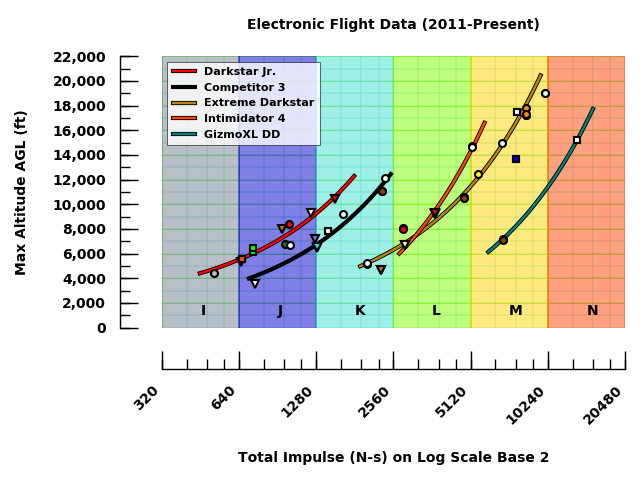
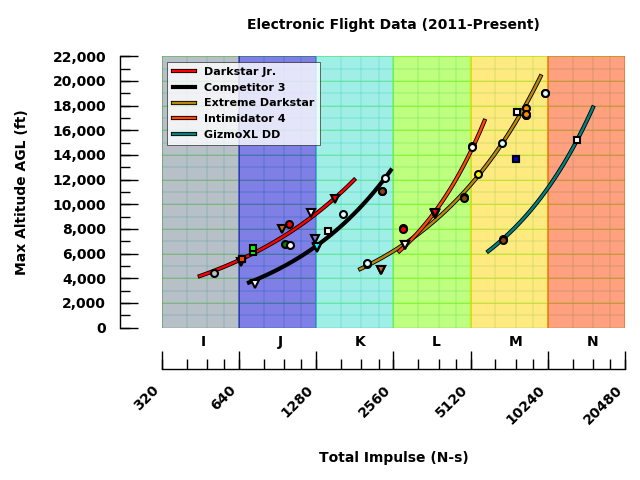
Better curve fits on semilogx scale.

diff --git a/plots/NewLog_v2.py b/plots/NewLog_v2.py
@@ -276,7 +276,7 @@ fout = 'NewLog_v2'
 
 # set titles
 title= r"Electronic Flight Data (2011-Present)"
-xtxt = r"Total Impulse (N-s) on Log Scale Base 2"
+xtxt = r"Total Impulse (N-s)"
 ytxt = r"Max Altitude AGL (ft)"
 
 # axes limits
@@ -398,7 +398,7 @@ ylow=itot-1.e6
 yhig=itot+1.e6
 plt.fill_between(itot,yhig,ylow,interpolate=True,alpha=0.5,\
     color='slategrey',label='_nolegend_')
-plt.text(0.5,1000,r'I',fontsize=10,family=family,\
+plt.text(0.5,-1500,r'I',fontsize=10,family=family,\
     color='k',fontweight='bold')
 
 # J-Range
@@ -407,7 +407,7 @@ ylow=itot-1.e6
 yhig=itot+1.e6
 plt.fill_between(itot,yhig,ylow,interpolate=True,alpha=0.5,\
     color='mediumblue',label='_nolegend_')
-plt.text(1.5,1000,r'J',fontsize=10,family=family,\
+plt.text(1.5,-1500,r'J',fontsize=10,family=family,\
     color='k',fontweight='bold')
 
 # K-Range
@@ -416,7 +416,7 @@ ylow=itot-1.e6
 yhig=itot+1.e6
 plt.fill_between(itot,yhig,ylow,interpolate=True,alpha=0.5,\
     color='turquoise',label='_nolegend_')
-plt.text(2.5,1000,r'K',fontsize=10,family=family,\
+plt.text(2.5,-1500,r'K',fontsize=10,family=family,\
     color='k',fontweight='bold')
 
 # L-Range
@@ -425,7 +425,7 @@ ylow=itot-1.e6
 yhig=itot+1.e6
 plt.fill_between(itot,yhig,ylow,interpolate=True,alpha=0.5,\
     color='chartreuse',label='_nolegend_')
-plt.text(3.5,1000,r'L',fontsize=10,family=family,\
+plt.text(3.5,-1500,r'L',fontsize=10,family=family,\
     color='k',fontweight='bold')
 
 # M-Range
@@ -434,7 +434,7 @@ ylow=itot-1.e6
 yhig=itot+1.e6
 plt.fill_between(itot,yhig,ylow,interpolate=True,alpha=0.5,\
     color='gold',label='_nolegend_')
-plt.text(4.5,1000,r'M',fontsize=10,family=family,\
+plt.text(4.5,-1500,r'M',fontsize=10,family=family,\
     color='k',fontweight='bold')
 
 # N-Range
@@ -443,7 +443,7 @@ ylow=itot-1.e6
 yhig=itot+1.e6
 plt.fill_between(itot,yhig,ylow,interpolate=True,alpha=0.5,\
     color='orangered',label='_nolegend_')
-plt.text(5.5,1000,r'N',fontsize=10,family=family,\
+plt.text(5.5,-1500,r'N',fontsize=10,family=family,\
     color='k',fontweight='bold')
 
 # Loop twice over all flight data
@@ -495,26 +495,30 @@ for jj in range(2):
         for flight in data:
             nf=nf+1
         print "There are ",nf," flights in the databse."
-        xlin=np.zeros(nf)
         xdat=np.zeros(nf)
         ydat=np.zeros(nf)
+        yagl=np.zeros(nf)
         ii=0
         for flight in data:
-            xlin[ii]=flight[5]
             xdat[ii]=np.log(flight[5]/320.0)/np.log(2.0)
-            ydat[ii]=flight[7]
+            ydat[ii]=np.log(flight[7]/1000.0)/np.log(2.0)
+            yagl[ii]=flight[7]
             ii+=1
 
-        # Curve Fit
+        # Curve Fit in Log-Log Coordinates
         # slope, intercept, r_value, p_value, std_err
         if nf>1 and jj==0 and k!=4:
-            [m,b,r,p,std]=sp.stats.linregress(xlin,ydat)
-            xfit=np.linspace(lb,ub)
+            [m,b,r,p,std]=sp.stats.linregress(xdat,ydat)
+            lb2=np.log(lb/320.)/np.log(2.0)
+            ub2=np.log(ub/320.)/np.log(2.0) 
+            xfit=np.linspace(lb2,ub2)
             yfit=np.multiply(xfit,m)+b
-            xfit=np.log(np.divide(xfit,320.))/np.log(2.0)
+
+            # Map back to linear altitude AGL.
+            yout=1000.*np.exp(np.multiply(yfit,np.log(2.0)))
 
             outline=mpe.withStroke(linewidth=3.0,foreground='black')
-            plt.plot(xfit,yfit,'k-',color=linecolor,linewidth=1.75,\
+            plt.plot(xfit,yout,'k-',color=linecolor,linewidth=1.75,\
                 label=rlabel,\
                 path_effects=[outline])
 
@@ -535,7 +539,7 @@ for jj in range(2):
             str1=r'%s %s'%(mfg,motor)
             print str1
             if (jj==1):
-                plt.plot(xdat[i],ydat[i],'ko',markersize=ms,\
+                plt.plot(xdat[i],yagl[i],'ko',markersize=ms,\
                     markeredgewidth=1.5,markeredgecolor='k',\
                     markerfacecolor=mc,label='_nolegend_',marker=mt)
             i+=1
@@ -557,6 +561,216 @@ for jj in range(2):
 loc=2
 
 legend = ax.legend(loc=loc,ncol=1,\
+    prop=matplotlib.font_manager.FontProperties(\
+        family=family,weight='bold',size=8),\
+    numpoints=1,fancybox=False,borderpad=0.5)
+legend.get_frame().set_linewidth(0.5)
+legend.get_frame().set_edgecolor("k")
+
+# save the image
+plt.tight_layout()
+f.savefig(fout+'.png',format='png')
+plt.clf()
+
+###########################################################################
+###########################################################################
+###
+### Another plot just for the motor legend...
+###
+###########################################################################
+###########################################################################
+
+# figure name
+fout = 'NewLegend'
+
+# set titles
+title= r"Motor Legend"
+xtxt = r" "
+ytxt = r" "
+
+# axes limits
+xmin = 0
+xmax = 6
+ymin = 0
+ymax = 22000
+
+# axes tick settings
+nx = 7
+ny = 12
+dx = (xmax-xmin)/(nx-1.0)
+dy = (ymax-ymin)/(ny-1.0)
+mx = 4
+my = 2
+xticks = ["320","640","1280","2560","5120","10240","20480"]
+yticks = [r"0",r"2,000",r"4,000",r"6,000",r"8,000",r"10,000",\
+    r"12,000",r"14,000",r"16,000",r"18,000",r"20,000",r"22,000"]
+
+# Base 2 math to place minor x-axis tick marks.
+lett=[320,640,1280,2560,5120,10240,20480]
+xminor=np.zeros(mx*len(lett)+1)
+jj=0
+for ll in lett:
+    for ii in range(mx):
+        xminor[jj] = ll+ll*ii/mx
+        jj+=1
+xminor[-1]=2*lett[-1]
+xminor=np.log(np.divide(xminor,320.0))/np.log(2.0)
+
+# figure settings
+figsize = (11,9)
+dpi = 1000
+
+# text settings
+family = 'sans-serif'
+
+# Open a new figure
+fig = plt.figure(figsize=figsize,dpi=dpi)
+f,ax = plt.subplots(1)
+
+# Font
+for label in (ax.get_xticklabels()+ax.get_yticklabels()):
+    label.set_fontname(family)
+    label.set_fontsize(10)
+
+# border position
+f.subplots_adjust(left=0.02,right=0.9,bottom=0.2,top=0.85)
+
+# move axes spines outward
+ax.spines['left'].set_position(('outward',3.0))
+ax.spines['bottom'].set_position(('outward',3.0))
+
+# border visibiliy
+ax.title.set_position([.5,1.07])
+ax.grid(False)
+ax.set_axisbelow(True)
+ax.grid(b=True,which='major',color='w',\
+    linestyle='-',linewidth=0.5)
+ax.grid(b=True,which='minor',color='w',\
+    linestyle='-',linewidth=0.25)
+ax.spines['top'].set_visible(False)
+ax.spines['right'].set_visible(False)
+ax.spines['bottom'].set_visible(False)
+ax.spines['left'].set_visible(False)
+
+# Axis padding
+ax.get_xaxis().tick_bottom()
+ax.xaxis.labelpad = 1
+ax.get_yaxis().tick_left()
+ax.yaxis.labelpad = 1
+
+# border line width
+ax.spines['top'].set_linewidth(1.0)
+ax.spines['right'].set_linewidth(1.0)
+ax.spines['bottom'].set_linewidth(1.0)
+ax.spines['left'].set_linewidth(1.0)
+
+# axes tick settings
+ax.get_yaxis().set_tick_params(which='both',direction='in',pad=10,\
+    right=False,left=False,width=1.0)
+ax.get_xaxis().set_tick_params(which='both',direction='in',pad=10,\
+    top=False,bottom=False,width=1.0)
+ax.get_yaxis().set_tick_params(which='major',length=13.0,width=1.0)
+ax.get_xaxis().set_tick_params(which='major',length=13.0,width=1.0)
+ax.get_yaxis().set_tick_params(which='minor',length=7.0,width=1.0)
+ax.get_xaxis().set_tick_params(which='minor',length=7.0,width=1.0)
+ax.axis([xmin,xmax,ymin,ymax])
+ax.xaxis.set_ticks(np.linspace(xmin,xmax,nx))
+ax.yaxis.set_ticks(np.linspace(ymin,ymax,ny))
+minorLocatorX = matplotlib.ticker.FixedLocator(xminor)
+minorLocatorY = ticker.MultipleLocator(dy/my)
+ax.xaxis.set_minor_locator(minorLocatorX)
+ax.yaxis.set_minor_locator(minorLocatorY)
+
+# resize all ticks
+ticklines = ax.get_xticklines()+ax.get_yticklines()
+ticklabels = ax.get_xticklabels()+ax.get_yticklabels()
+for line in ticklines:
+    line.set_linewidth(1.0)
+for label in ticklabels:
+    label.set_fontsize(10)
+
+# set the text
+ax.set_title(title,fontsize=10,weight='bold')
+ax.set_ylabel(ytxt,fontsize=10,weight='bold')
+ax.set_xlabel(xtxt,fontsize=10,weight='bold')
+ax.set_xticklabels(xticks,fontsize=10,weight='bold',\
+    rotation=45,ha='right',color='w')
+ax.set_yticklabels(yticks,fontsize=10,weight='bold',color='w')
+
+##########################
+### ADD YOUR DATA HERE ###
+##########################
+
+# Loop over rocket kits (k)
+for k in range(6):
+
+    if k==0:
+        [ttl,data,symb] = FlightLog_DSJrWM()
+    if k==1:
+        [ttl,data,symb] = FlightLog_Comp3WM()
+    if k==2:
+        [ttl,data,symb] = FlightLog_ExtremeDS()
+    if k==3:
+        [ttl,data,symb,d2,s2] = FlightLog_Intimidator4()
+    if k==4:
+        [ttl,data,symb,d2,s2] = FlightLog_Intimidator4()
+        data=d2
+        symb=s2
+    if k==5:
+        [ttl,data,symb] = FlightLog_GizmoXLDD()
+
+    # Flight Data
+    nf=0
+    for flight in data:
+        nf=nf+1
+    print "There are ",nf," flights in the databse."
+    xdat=np.zeros(nf)
+    ydat=np.zeros(nf)
+    ii=0
+    for flight in data:
+        xdat[ii]=-99.e99
+        ydat[ii]=-99.e99
+        ii+=1
+
+    # Loop over flights in data (i)
+    i=0
+    for flight in data:
+
+        # Loop over marker parameters (j)
+        j=0
+        for marker in symb:
+            if (i==j):
+                ms = marker[0]*0.5
+                mt = marker[1]
+                mc = marker[2]
+            j+=1
+        mfg = flight[4]
+        motor = flight[3]
+        str1=r'%s %s'%(mfg,motor)
+        print str1
+        if (motor!="_nolegend_"):
+            plt.plot(xdat[i],ydat[i],'ko',markersize=ms,\
+                markeredgewidth=1.5,markeredgecolor='k',\
+                markerfacecolor=mc,label=str1,marker=mt)
+        i+=1
+
+# legend location code.
+# ========================
+# 'best'..............0
+# 'upper right'.......1
+# 'upper left'........2
+# 'lower left'........3
+# 'lower right'.......4
+# 'right'.............5
+# 'center left'.......6
+# 'center right'......7
+# 'lower center'......8
+# 'upper center'......9
+# 'center'............10
+#
+loc=9
+
+legend = ax.legend(loc=loc,ncol=3,\
     prop=matplotlib.font_manager.FontProperties(\
         family=family,weight='bold',size=8),\
     numpoints=1,fancybox=False,borderpad=0.5)
